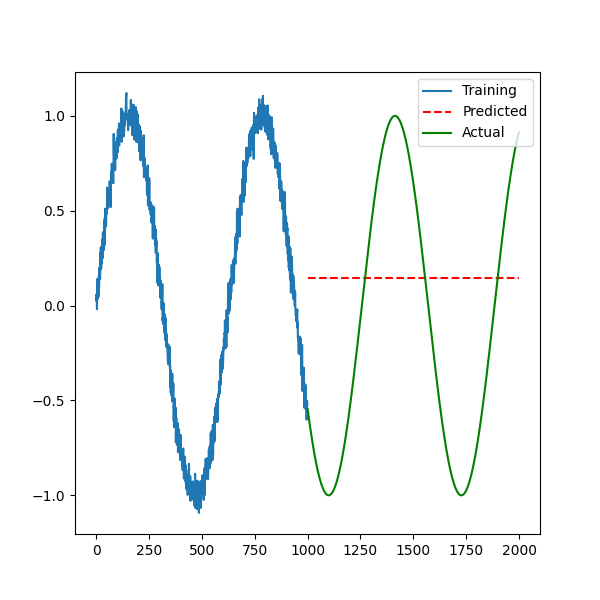
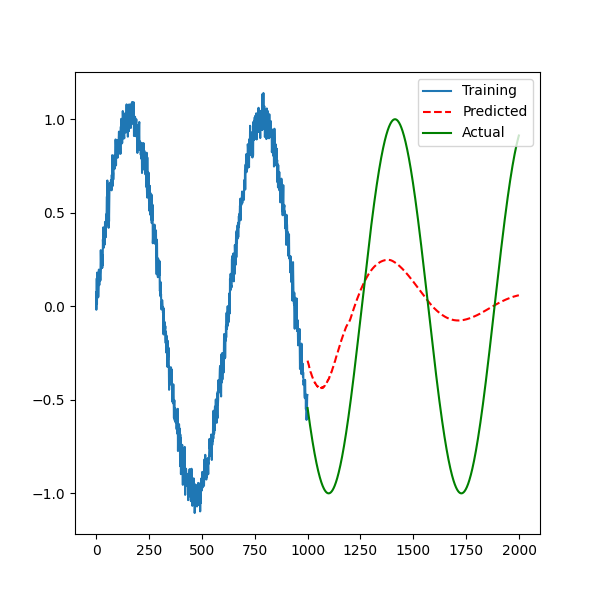
TransformerLayer working

diff --git a/timeseries_transformer/forcasting_model.py b/timeseries_transformer/forcasting_model.py
@@ -1,44 +1,75 @@
 # Imports
-import torch
+import torch, math
 import numpy as np
-import torch.nn as nn
+from torch import nn, Tensor
 import torch.nn.functional as F
 from torch.nn.modules.transformer import TransformerEncoderLayer
 
+# Positional Encoding - https://pytorch.org/tutorials/beginner/transformer_tutorial.html
+class PositionalEncoding(nn.Module):
+    def __init__(self, d_model: int, dropout: float = 0.1, max_len: int = 5000):
+        super().__init__()
+        self.dropout = nn.Dropout(p=dropout)
+        position = torch.arange(max_len).unsqueeze(1)
+        div_term = torch.exp(torch.arange(0, d_model, 2) * (-math.log(10000.0) / d_model))
+        pe = torch.zeros(max_len, 1, d_model)
+        pe[:, 0, 0::2] = torch.sin(position * div_term)
+        pe[:, 0, 1::2] = torch.cos(position * div_term)
+        self.register_buffer('pe', pe)
+    def forward(self, x: Tensor) -> Tensor:
+        x = x + self.pe[:x.size(0)]
+        return self.dropout(x)
 
 # A forcasting model
 class ForcastingModel(torch.nn.Module):
     def __init__(self, 
-                 seq_len=200, 
-                 dim_feedforward = 512,
+                 seq_len=200,
+                 embed_size = 16,
+                 nhead = 4,
+                 dim_feedforward = 64,
                  dropout = 0.1,
                  device = "cuda"):
         super(ForcastingModel, self).__init__()
         self.device = device
         self.seq_len = seq_len
+        self.embed_size = embed_size
         self.transformer_encoder = TransformerEncoderLayer(
-            d_model = 1,
-            nhead = 1,
+            d_model = embed_size,
+            nhead = nhead,
             dim_feedforward = dim_feedforward,
             dropout = dropout
         )
         self.relu = nn.ReLU()
-        # self.dropout = nn.Dropout(0.1)
-        self.linear1 = nn.Linear(seq_len, int(dim_feedforward))
+        self.dropout = nn.Dropout(dropout)
+        self.position_encoder = PositionalEncoding(d_model=embed_size, 
+                                                   dropout=dropout,
+                                                   max_len=seq_len)
+        self.input_embedding  = nn.Linear(1, embed_size)
+        self.linear1 = nn.Linear(seq_len*embed_size, int(dim_feedforward))
         self.linear2 = nn.Linear(int(dim_feedforward), int(dim_feedforward/2))
         self.linear3 = nn.Linear(int(dim_feedforward/2), int(dim_feedforward/4))
         self.outlayer = nn.Linear(int(dim_feedforward/4), 1)
     def forward(self, x):
-        # src_mask = torch.rand((x.shape[0], self.seq_len, self.seq_len)).bool()
-        # src_mask = src_mask.to(self.device)
-        x = self.transformer_encoder(x).reshape((-1, self.seq_len))
+        src_mask = self._generate_square_subsequent_mask()
+        src_mask.to(self.device)
+        x = self.input_embedding(x)
+        x = self.position_encoder(x)
+        x = self.transformer_encoder(x).reshape((-1, self.seq_len*self.embed_size))
         x = self.linear1(x)
         x = self.relu(x)
-        # x = self.dropout(x)
+        x = self.dropout(x)
         x = self.linear2(x)
         x = self.relu(x)
-        # x = self.dropout(x)
+        x = self.dropout(x)
         x = self.linear3(x)
         x = self.relu(x)
         return self.outlayer(x)
-        return x
+    def _generate_square_subsequent_mask(self):
+        return torch.triu(
+            torch.full((self.seq_len, self.seq_len), float('-inf'), dtype=torch.float32, device=self.device),
+            diagonal=1,
+        )
+
+#https://github.com/ctxj/Time-Series-Transformer-Pytorch
+#https://github.com/oliverguhr/transformer-time-series-prediction/blob/master/transformer-singlestep.py
+#https://github.com/huggingface/transformers/blob/v4.40.1/src/transformers/models/time_series_transformer/modeling_time_series_transformer.py#L1179

diff --git a/timeseries_transformer/sine_example.py b/timeseries_transformer/sine_example.py
@@ -18,15 +18,16 @@ Y = np.array([x[ii+seq_len] for ii in range(0, x.shape[0]-seq_len)]).reshape((-1
 
 
 # Training Loop
-EPOCHS = 20
-BATCH_SIZE = 8
-LEARNING_RATE = 4.12e-5
-model = ForcastingModel(seq_len, dim_feedforward=64)
-model.to("cuda")
+device="cpu"
+EPOCHS = 100
+BATCH_SIZE = 2
+LEARNING_RATE = 2e-7
+model = ForcastingModel(seq_len, embed_size=16, nhead=2, device=device)
+model.to(device)
 model.train()
-criterion = torch.nn.MSELoss()
+criterion = torch.nn.HuberLoss()
 optimizer = torch.optim.Adam(model.parameters(), lr=LEARNING_RATE)
-dataset = TensorDataset(torch.Tensor(X).to("cuda"), torch.Tensor(Y).to("cuda"))
+dataset = TensorDataset(torch.Tensor(X).to(device), torch.Tensor(Y).to(device))
 dataloader = DataLoader(dataset, batch_size=BATCH_SIZE)
 for epoch in range(EPOCHS):
     for xx, yy in dataloader:
@@ -43,7 +44,7 @@ FORCAST = 1000
 model.eval()
 for ff in range(FORCAST):
     xx = x[len(x)-seq_len:len(x)]
-    yy = model(torch.Tensor(xx).reshape(1, xx.shape[0], 1).to("cuda"))
+    yy = model(torch.Tensor(xx).reshape(1, xx.shape[0], 1).to(device))
     x = np.concatenate((x, yy.detach().cpu().numpy().reshape(1,)))
 
 

diff --git a/timeseries_transformer/sunspots_example.py b/timeseries_transformer/sunspots_example.py
@@ -17,14 +17,15 @@ Y = np.array([x[ii+seq_len] for ii in range(0, x.shape[0]-seq_len)]).reshape((-1
 
 
 # Training Loop
-EPOCHS = 3000
-BATCH_SIZE = 1
-LEARNING_RATE = 1e-6
-model = ForcastingModel(seq_len, dim_feedforward=64).to("cuda")
+device = "cpu"
+EPOCHS = 80
+BATCH_SIZE = 2
+LEARNING_RATE = 2e-6
+model = ForcastingModel(seq_len, embed_size=8, nhead=2, device=device).to(device)
 model.train()
 criterion = torch.nn.HuberLoss()
 optimizer = torch.optim.Adam(model.parameters(), lr=LEARNING_RATE)
-dataset = TensorDataset(torch.Tensor(X).to("cuda"), torch.Tensor(Y).to("cuda"))
+dataset = TensorDataset(torch.Tensor(X).to(device), torch.Tensor(Y).to(device))
 dataloader = DataLoader(dataset, batch_size=BATCH_SIZE)
 for epoch in range(EPOCHS):
     for xx, yy in dataloader:
@@ -40,7 +41,7 @@ for epoch in range(EPOCHS):
 model.eval()
 for ff in range(len(forcast)):
     xx = x[len(x)-seq_len:len(x)]
-    yy = model(torch.Tensor(xx).reshape((1, seq_len, 1)).to("cuda"))
+    yy = model(torch.Tensor(xx).reshape((1, seq_len, 1)).to(device))
     x = np.concatenate((x, yy.detach().cpu().numpy().reshape(1,)))
 
 
